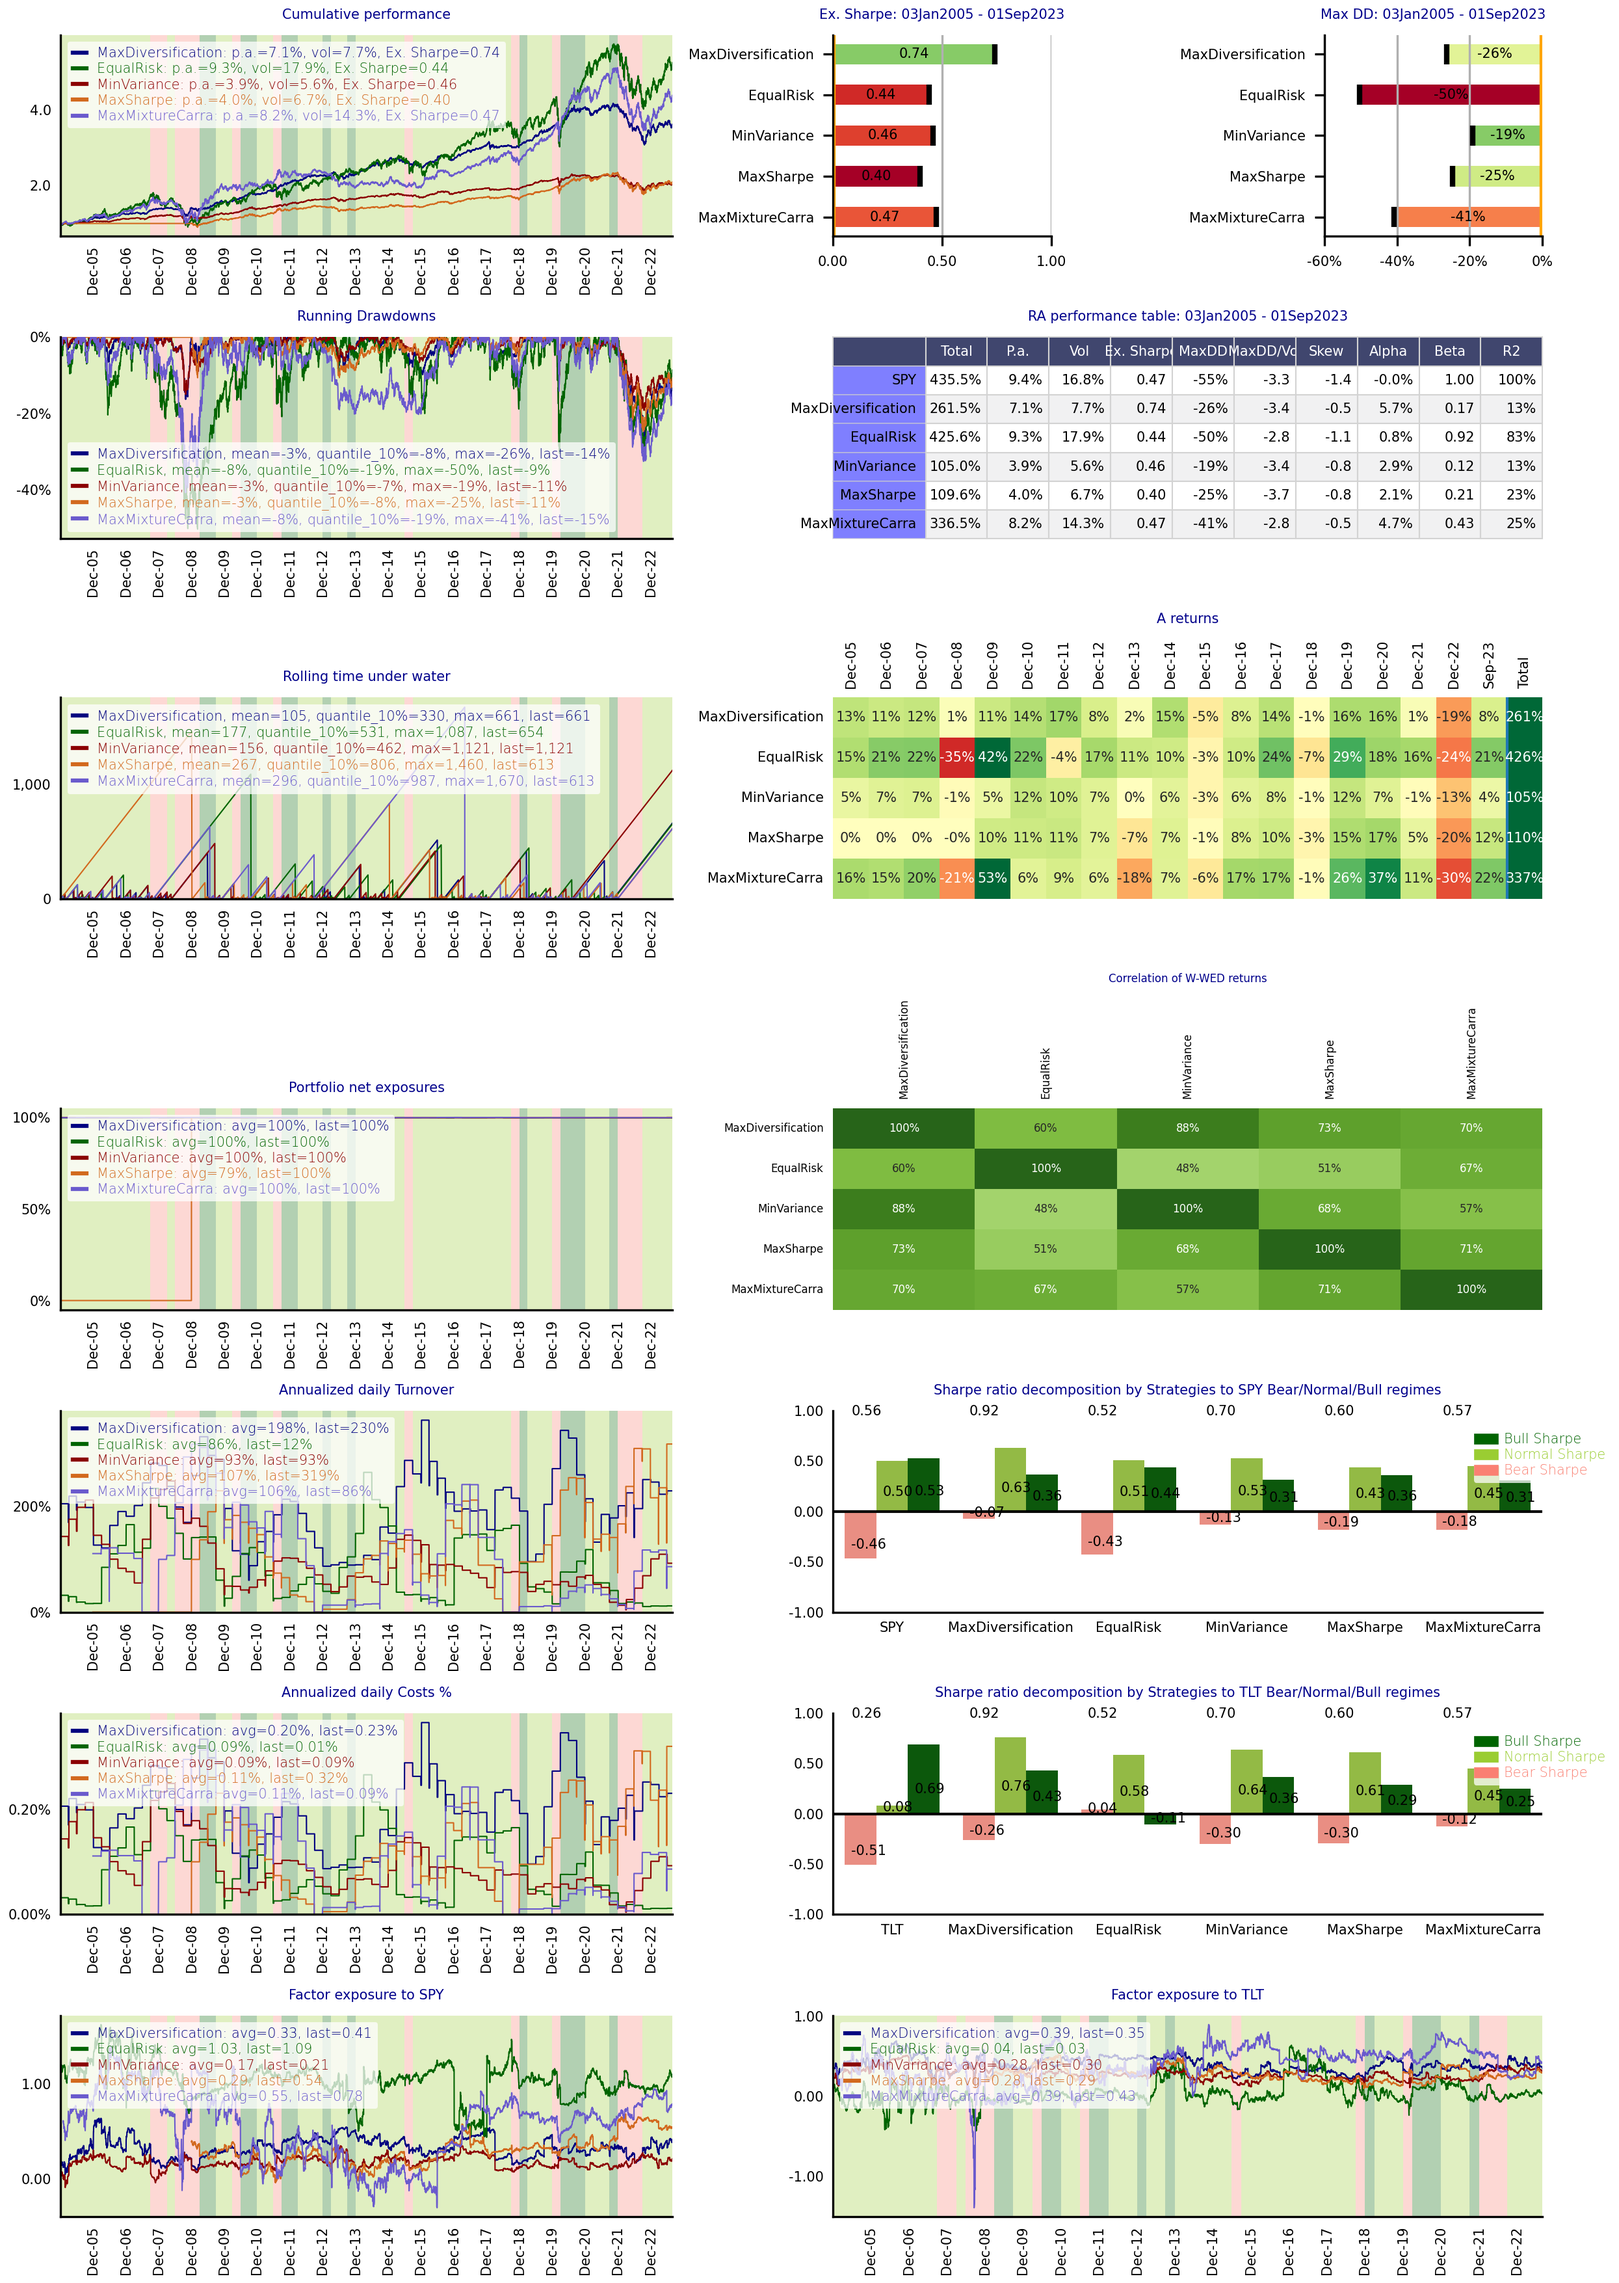
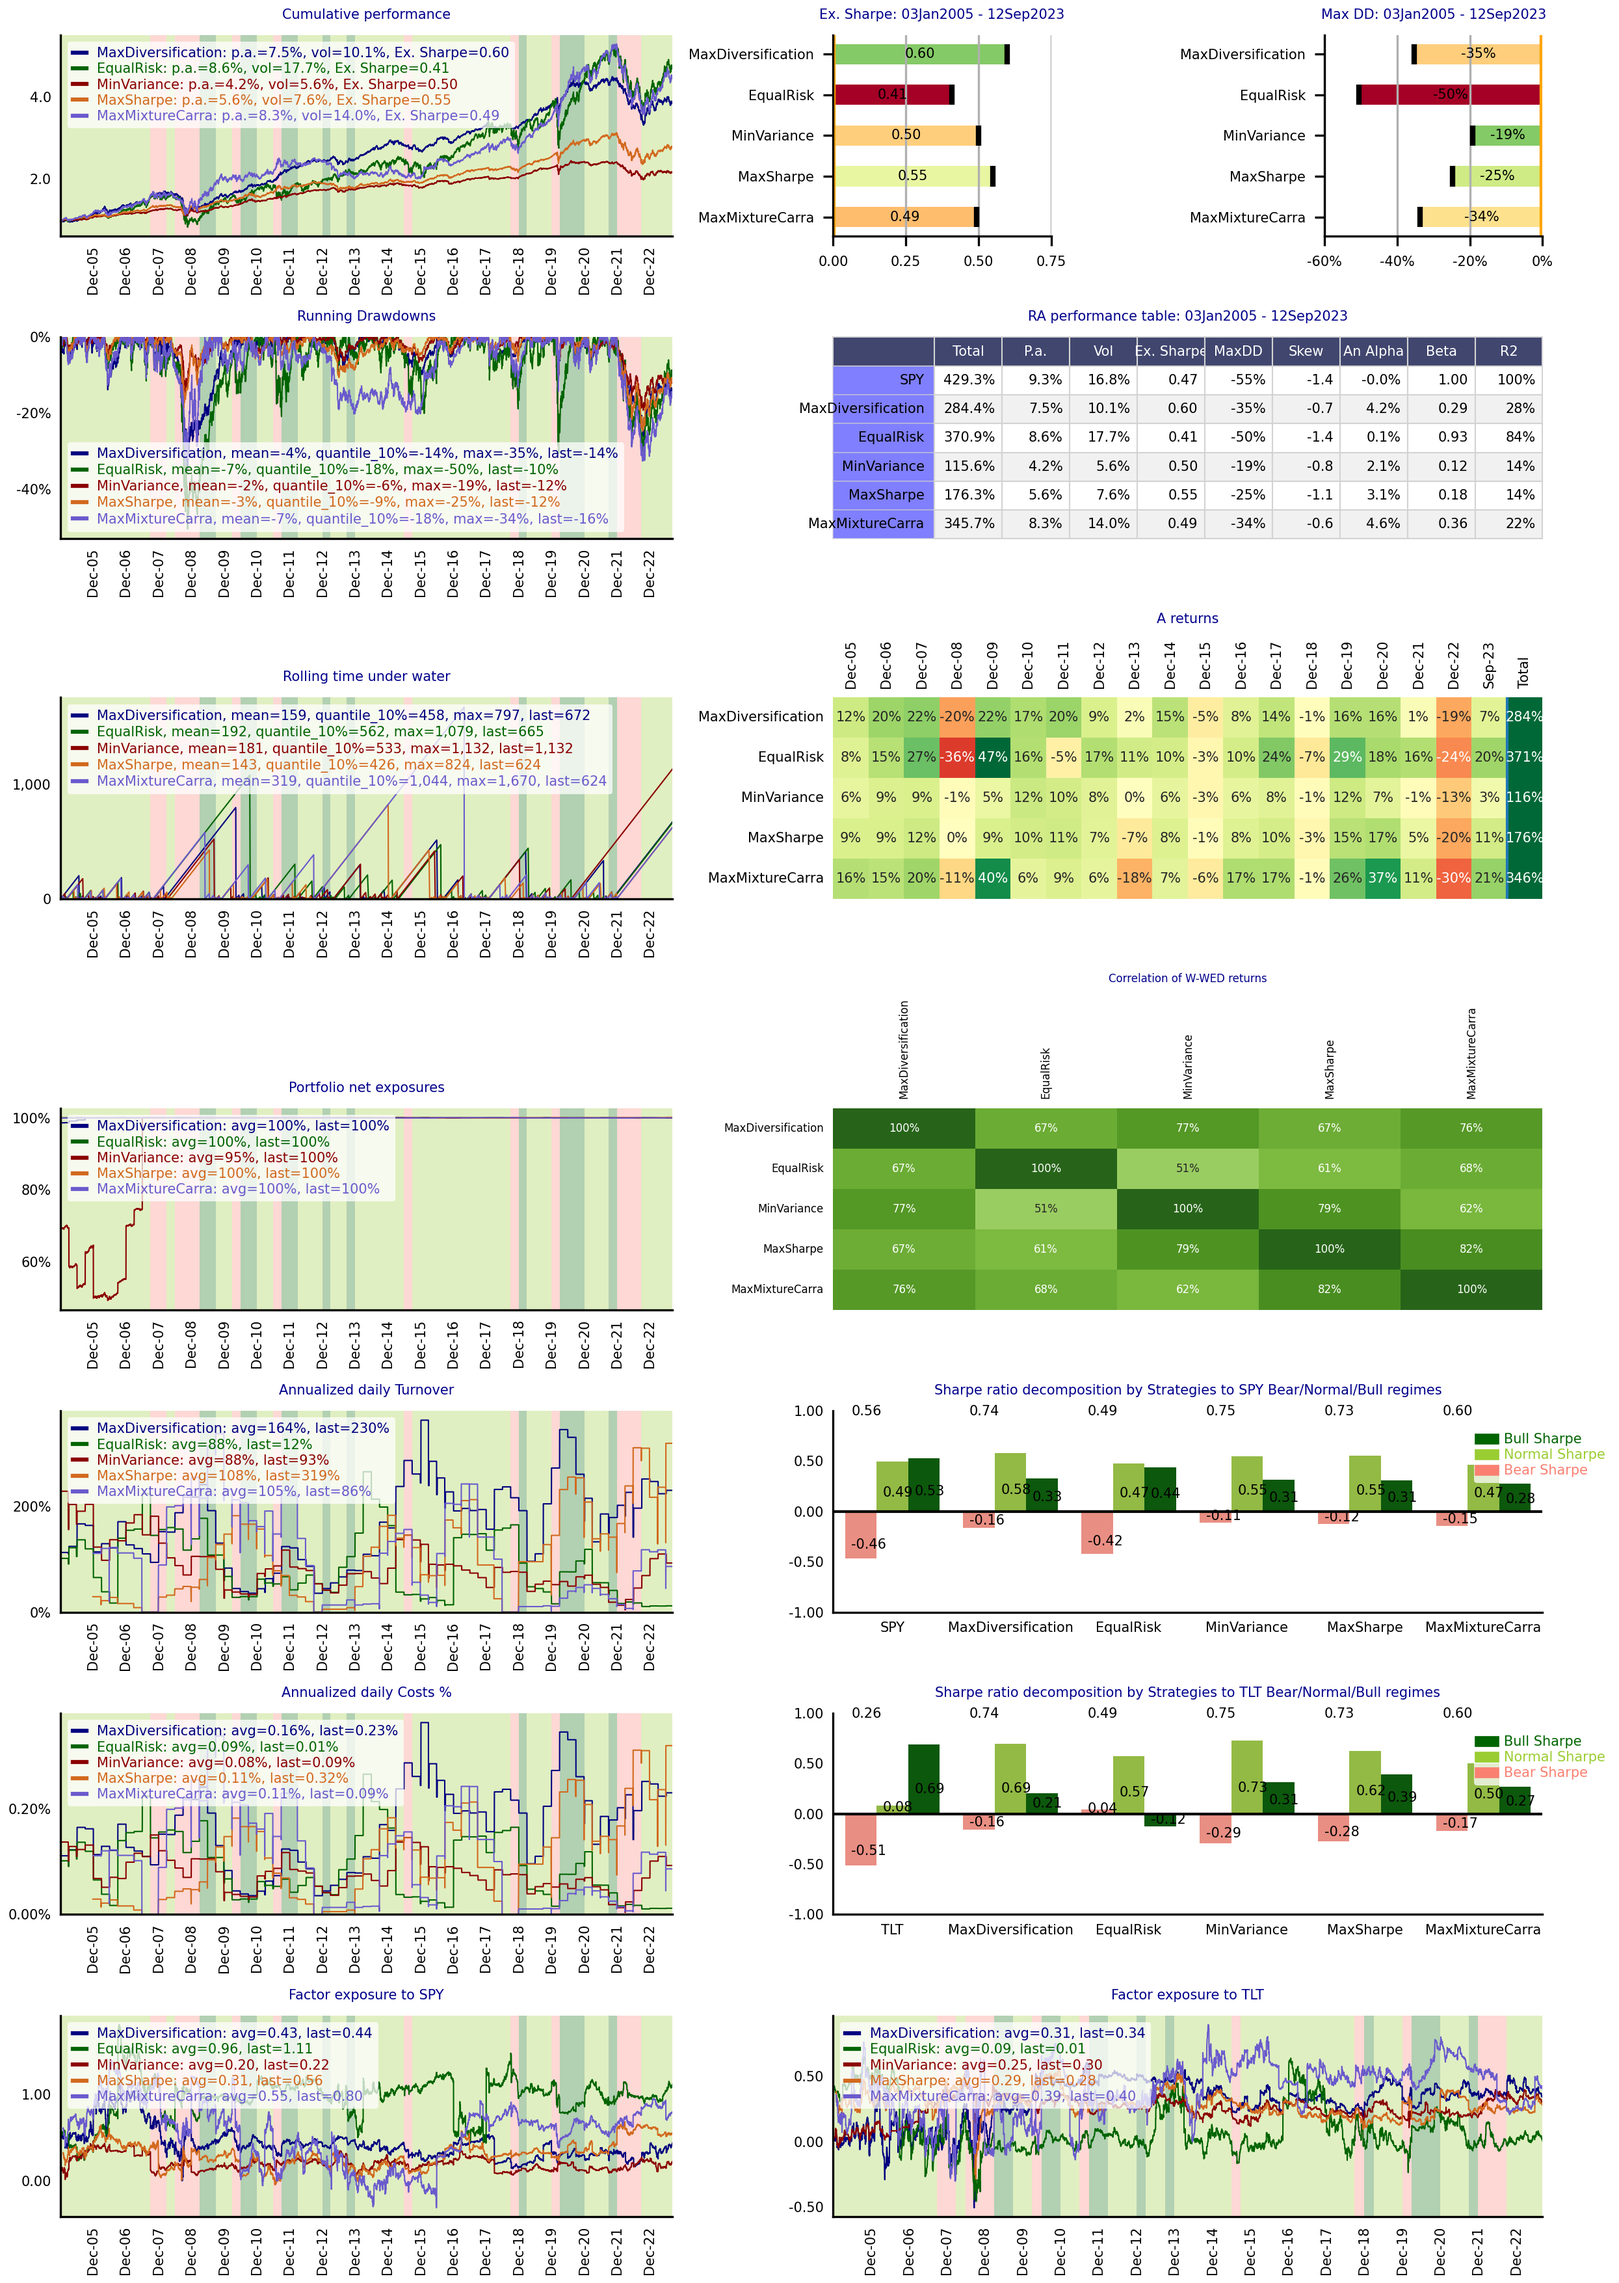
increase requirement to qis>=2.0.21

diff --git a/optimalportfolios/examples/crypto_allocation/article_figures.py b/optimalportfolios/examples/crypto_allocation/article_figures.py
@@ -13,7 +13,7 @@ from qis import TimePeriod, PerfParams, BenchmarkReturnsQuantileRegimeSpecs, Per
 import optimalportfolios.utils.gaussian_mixture as gm
 from optimalportfolios.examples.crypto_allocation.load_prices import Assets, load_prices, load_risk_free_rate
 
-PERF_PARAMS = PerfParams(freq_vol='M', freq_reg='M', freq_drawdown='M', rates_data=load_risk_free_rate())
+PERF_PARAMS = PerfParams(freq_vol='M', freq_reg='M', freq_drawdown='M', rates_data=load_risk_free_rate(), alpha_an_factor=12)
 REGIME_PARAMS = BenchmarkReturnsQuantileRegimeSpecs(freq='Q')
 
 FIGSIZE = (14, 6)
@@ -79,7 +79,6 @@ def plot_performance_table(prices: pd.DataFrame,
                                             fontsize=9,
                                             transpose=False,
                                             special_rows_colors=[(1, 'lightblue')],
-                                            alpha_an_factor=12,
                                             is_log_returns=True,
                                             cmap='Greys'))
     fig, axs = plt.subplots(len(time_period_dict.keys()), 1, figsize=(12, 3.0), constrained_layout=True)
@@ -118,7 +117,6 @@ def plot_performance_tables(benchmark: str,
                                             #heatmap_columns=[4],
                                             fontsize=9,
                                             transpose=False,
-                                            alpha_an_factor=12,
                                             is_log_returns=True,
                                             cmap='Greys'))
 
@@ -356,7 +354,6 @@ def run_unit_test(unit_test: UnitTests):
         prices1 = prices[[Assets.BAL, Assets.BTC]].dropna()
         kwargs = dict(alpha_format='{0:+0.0%}',
                       beta_format='{:0.1f}',
-                      alpha_an_factor=12,
                       is_vol_norm=False,
                       framealpha=0.9)
         with sns.axes_style('darkgrid'):

diff --git a/optimalportfolios/reports/config.py b/optimalportfolios/reports/config.py
@@ -6,7 +6,7 @@ from qis import PerfStat, PerfParams, BenchmarkReturnsQuantileRegimeSpecs
 
 BENCHMARK_TABLE_COLUMNS2 = (PerfStat.PA_RETURN,
                             PerfStat.VOL,
-                            PerfStat.SHARPE,
+                            PerfStat.SHARPE_EXCESS,
                             PerfStat.MAX_DD,
                             # PerfStat.MAX_DD_VOL,
                             PerfStat.BEST,
@@ -23,7 +23,7 @@ FIG_SIZE11_2 = (4.70, 0.95)
 FIG_SIZE11_2a = (4.70, 0.6)
 
 
-PERF_PARAMS = PerfParams(freq_vol='M', freq_reg='M', freq_drawdown='M')
+PERF_PARAMS = PerfParams(freq_vol='M', freq_reg='M', freq_drawdown='M', alpha_an_factor=12)
 
 REGIME_PARAMS = BenchmarkReturnsQuantileRegimeSpecs(freq='M')
 
@@ -33,7 +33,6 @@ KWARGS = dict(fontsize=7,
               weight='normal',
               markersize=2,
               framealpha=0.8,
-              alpha_an_factor=365.0,
               date_format='%b-%y',
               trend_line_colors=['darkred'],
               trend_linewidth=2.0,

diff --git a/optimalportfolios/examples/crypto_allocation/backtest_crypto_portfolios.py b/optimalportfolios/examples/crypto_allocation/backtest_crypto_portfolios.py
@@ -67,7 +67,6 @@ PERF_COLUMNS_LONG = (PerfStat.START_DATE,
 FIG_KWARGS = dict(fontsize=12, digits_to_show=1, sharpe_digits=2,
                   alpha_format='{0:+0.0%}',
                   beta_format='{:0.1f}',
-                  alpha_an_factor=12,
                   x_date_freq='Q',
                   perf_params=PERF_PARAMS,
                   regime_params=REGIME_PARAMS,
@@ -758,8 +757,7 @@ def backtest_constant_weight_portfolios(crypto_asset: str = 'BTC',
     figs = []
     kwargs = dict(fontsize=12, digits_to_show=1, sharpe_digits=2,
                   alpha_format='{0:+0.0%}',
-                  beta_format='{:0.1f}',
-                  alpha_an_factor=12)
+                  beta_format='{:0.1f}')
     # time series
     with sns.axes_style('darkgrid'):
         fig, ax = plt.subplots(1, 1, figsize=(16, 8), tight_layout=True)

diff --git a/optimalportfolios/examples/crypto_allocation/gaussian_mixure_scatter.py b/optimalportfolios/examples/crypto_allocation/gaussian_mixure_scatter.py
@@ -18,8 +18,7 @@ def run_unit_test(unit_test: UnitTests):
     perf_params = qis.PerfParams(freq='W-WED')
     kwargs = dict(fontsize=12, digits_to_show=1, sharpe_digits=2,
                   alpha_format='{0:+0.0%}',
-                  beta_format='{:0.1f}',
-                  alpha_an_factor=12)
+                  beta_format='{:0.1f}')
 
     time_periods = [qis.TimePeriod('31Aug2002', '31Dec2019'), qis.TimePeriod('31Dec2019', '16Dec2022')]
 

diff --git a/setup.py b/setup.py
@@ -16,7 +16,7 @@ requirements = read_requirements("requirements.txt")
 
 setup(
     name='optimalportfolios',
-    version='1.0.8',
+    version='1.0.9',
     author='Artur Sepp',
     author_email='artursepp@gmail.com',
     url='https://github.com/ArturSepp/OptimalPortfolios',
